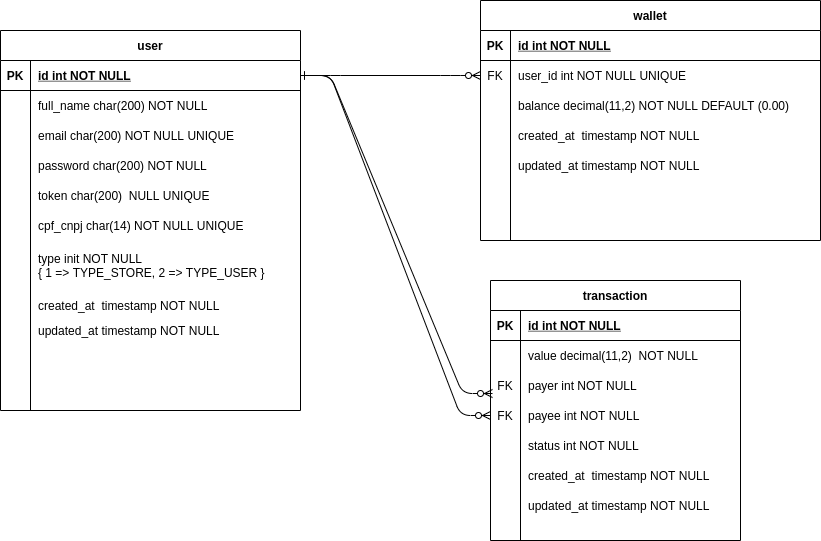
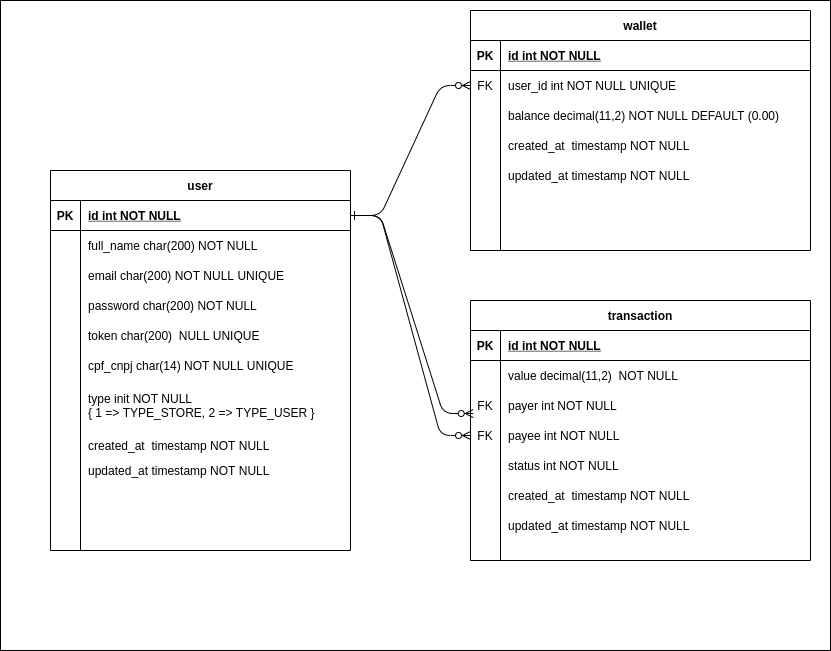
-- modificado o readme, criando um mais simples e criado um link para uma documentacao mais completa --- modificado a image do modelo para poder ser visualizado tanto em modo dark como em modo white

diff --git a/documentacao/README.md b/documentacao/README.md
@@ -1,0 +1,203 @@
+
+<p align="center">
+    <h2 align="center">Projeto Api</h2>
+    
+
+    
+</p>
+
+## Framework
+Vou utilzar a mesma esplicação que utilizei no meu TCC XD.
+
+
+Foi utilizado o framework YII2 para a construção da API REST. Os modelos utilizados são Active Records.
+
+
+
+> O Active Record fornece uma interface orientada a objetos para acessar
+> e manipular dados armazenados em bancos de dados. Uma classe Active
+> Record está associada a uma tabela da base de dados, uma instância do
+> Active Record corresponde a uma linha desta tabela, e um atributo
+> desta instância representa o valor de uma coluna desta linha. Em vez
+> de escrever instruções SQL a mão, você pode acessar os atributos do
+> Active Record e chamar os métodos do Active Record para acessar e
+> manipular os dados armazenados nas tabelas do banco de dados (YII,
+> acesso em outubro de 2018).
+
+  
+Estrutura de Diretorios
+-------------------
+Temos a estrutura basica do YII2 e eu vou dar uma explicada rapida em cada diretorio.
+
+
+```
+.
+└───.docker (arquivos referentes ao docker)
+│   │   
+│   └───app (arquivos referente ao container da api)
+│       │   db.php (arquivo usado para modificacoes de configuracoes referente ao db no yii2)
+│       │   Dockerfile 
+│       │   env.php (algumas variaveis que sao utilizadas para o JWT)
+│   
+└───commands (controllesr que geralmente sao chamados por robos, similar aos jobs do laravel)
+│
+│
+└───config (aquivos referentes as configuracoes do framework)
+│   │   web.php (principal arquivo de configuracao, para as entradas externas)
+│   │   console.php (principal arquivo de configuracao, para os commands)
+│  
+│
+└───controllers
+│   │   NoSecurity.php  
+│   │   TransactionController.php
+│   │   UserController.php
+│ 
+│ 
+└───documentacao (documentacao do sistema)
+│   │ modelo_relacional.png 
+│   │ README.md
+│   │ 
+│ 
+└─── migrations (versionamento do banco em codigo)
+│   | m210305_182717_create_table_user.php ( cria a tabela user)
+│   | m210305_190039_create_table_wallet.php ( cria a tabela wallet)
+│   | m210305_190056_create_table_transaction.php (cria a table transaction)
+│   | m210306_131921_seed_user_and_wallet.php (popula as tabelas user e wallet)
+│ 
+│ 
+└───models
+│   │ Transaction.php    
+│   │ User.php   
+│   │ Wallet.php
+│ 
+│ 
+└───modules
+│   │
+│   └───nodbt
+│   │   │  
+│   │   │  
+│   │   └───controllers   
+│   │   │  
+│   │   └───models   
+│   │   │  Module.php
+│   └───security
+│       │   
+│       │  
+│       └───controllers   
+│       │  
+│       └───models   
+│   
+│ 
+│ 
+└───tests
+│ 
+│ 
+└───web (similar ao public do laravel, onde fica o apontamento e carrega as classes do framework)
+```
+
+
+Estrutura do Projeto
+-------------------
+#### Modelo Relacional
+
+![](./modelo_relacional.png)
+
+#### **Todos os modelos nos 3 modulos semguem as tabelas pois todos sao active records**
+
+
+#### Foi criado 3 modulos de api
+
+
+##### chamadas: **/**
+ usa a estrutura padrao do Yii2 tendo seus modelos em models e seus controles em controllers, a configuracao de roteamento esta em config/web.php na linha 46 toda a parte de urlManager é referente ao roteamento, essa api nao utiliza nenhum padrao de autenticação e seguranca, toda a transaction é realizada por transaction de banco de dados quando ocorre algum erro é realizado um rollback para desfazer todas as operacoes assim não guardando nenhuma informacao
+
+#### chamadas: **/security/**
+Nessa api existe autenticacao via JWT outras implementacoes por exemplo o usuario só consegue ver sua propria wallet, e só consegue ver os valores de transactions que ele participou. possui o mesmo esquema de transaction de banco de dados
+
+#### chamadas: **/nodbt/**
+Nao possui autenticacao e a reversao ao ocorrer algum tipo de erro é realizada sem transaction de banco de dados.
+
+Documentação da api:
+[Postman](https://documenter.getpostman.com/view/1908250/Tz5m6ygv)
+
+#### **Model User**
+Modelo que representa a tabela user, para os modules commom e o nodbt ele só serve para trazer os dados, não foi implementado nada mais além das regras basicas e os filds que deve trazer nas consultas.
+
+
+Já no module security o mesmo tem outras funcoes como o generateToken, que é uma funcao para gerar o token JWT, além de sua authenticacao
+
+#### **Model Wallet**
+Modelo que representa a tabela wallet, para os modules commom, security e nodbt a Wallet funciona praticamente igual tendo as funcoes deposit e withdrawn.
+
+
+A funçao deposit funciona quando o valor é depositado na wallet de outro ususario e dentro dela que é realizado a notificacao que o valor foi recebido.
+
+
+A função withdrawn funciona quando o valor é retirado para ser transferido e é nessa função que a api manda uma requisição para saber se está autorizado ou não.
+
+
+O Module nodbt tem mais duas funções que são o revertDeposit e revertWithdrawn que servem para fazer a reversão dos valores. 
+
+
+
+#### **Model Transaction**
+Modelo que representa a tabela transaction, para os modules commom, security e nodbt a transaction é igual. Sendo responsavel por todas as regras de validação exceto a verificação de autorização no serviço de terceiros.
+
+#### **Controller User**
+Controller que representa as chamadas referente aos users, nos modules commom e nodbt funciona exatamente igual, trazendo todos os dados sem a necessidade de authenticação, já no module security é necessario um token e o
+usuario do token só pode ver os valores de sua propria wallet.
+
+#### **Controller Transaction**
+Controller que representa as chamadas referente as transactions.
+No module commom e nodbt as chamdas gets (list e view) trazem todos os valores sem nenhum criterio.
+
+
+No module security as chamdas gets (list e view), necessario envio do token, só trazem todos os valores exceto o value da transaction caso o usuario não participou da mesma.
+
+
+No module commom e security a chamda post (create), precisa dos dados descrito na documentação da api e caso ocorra uma incosistencia a mesma não é realizada por causa do rollback, a diferença entre o commom e security 
+é que no security o payer é sempre o usuario authenticado.
+No module nodbt é parecido com o do module commom a diferençã é que não tem rollback e a reversão é feita a partir de modificações na wallet.
+
+#### Controller Transaction
+
+##### Dados 
+como não foi criado a api para cadastro de usuarios, foi criado um migration para popular o banco com usuarios apra fins de teste. 
+
+
+Os usuario seguem a nomeclatura user1@apiprocesso.teste ... até user5@apiprocesso.teste os 3 primeiros sao usuarios comuns e os 2 ultimos são usuarios tipos de loja. 
+
+
+cada qual teve um valor especifico na wallet.
+
+
+
+Estrutura Docker
+---------------------
+O docker-compose foi separado em 3 containers diferentes um container para a api, um para o mysql e o ultimo com o adminer para acessar o banco com mais facilidade.
+
+
+existe um .env com as configuracoes necessarias para rodar o docker-compose.
+
+
+os arquivos referentes ao docker ficam no diretorio .docker/
+
+
+o mesmo possui 3 diretorios mais um arquivo de comando.
+
+
+diretorio app/ possui arquivos que seram subistituidos no yii2 sempre que rodar um compose up e possui o dockerfile com a configuracao docker da api.
+
+
+foi utilizado o dockerize para fazer essas subistituicoes.
+
+
+o diretorio dbdata é o responsavel peloas arquivos de banco
+
+
+o diretorio httpd é aonde ficam as configuracoes do apache que o container da api utiliza
+
+
+e o arquivo entrypoint.sh é o entrypoint do container da api o mesmo instala os arquivos do compose caso não nao esteja instalado.
+
+

diff --git a/README.md b/README.md
@@ -1,113 +1,12 @@
 
-<p align="center">
-    <h2 align="center">Projeto Api</h2>
-    <br>
-</p>
+# Projeto Api
+Projeto com a finalidade de realizar transferencia de valores entre usuarios.
 
-## Framework
-Vou utilzar a mesma esplicação que utilizei no meu TCC XD.<br>
-Foi utilizado o framework YII2 para a construção da API REST. Os modelos utilizados são Active Records.<br>
-
-> O Active Record fornece uma interface orientada a objetos para acessar
-> e manipular dados armazenados em bancos de dados. Uma classe Active
-> Record está associada a uma tabela da base de dados, uma instância do
-> Active Record corresponde a uma linha desta tabela, e um atributo
-> desta instância representa o valor de uma coluna desta linha. Em vez
-> de escrever instruções SQL a mão, você pode acessar os atributos do
-> Active Record e chamar os métodos do Active Record para acessar e
-> manipular os dados armazenados nas tabelas do banco de dados (YII,
-> acesso em outubro de 2018).
-
-  
-Estrutura de Diretorios
--------------------
-Temos a estrutura basica do YII2 e eu vou dar uma explicada rapida em cada diretorio.<br>
-.docker/ <br>
-nesse diretorio ficam os arquivos referentes ao docker, tera uma sessao para explicar sobre o uso do docker nesse projeto.<br>
-commands/ <br>
-diretorios referentes ao comandos, geralmente algo que sera executado pelo cron similar aos jobs do laravel<br>
-config/ <br>
-diretorio com os aquivos referentes as configuracoes do framework, um arquivo em especifico o web.php contem todas as configuracoes mais as rotas das apis.<br>
-controllers/ <br>
-diretorio com as classes referentes aos controllers<br>
-documentacao/ <br>
-diretorio com arquivos referente a documentacao do sistema.<br>
-migrations/ <br>
-diretorio com as classes de migrations, para versionamento do banco em codigo.<br>
-models/ <br>
-diretorio com as classes referentes aos modelos.<br>
-modules/ <br>
-diretorio com os modules, cada modulo possui seus diretorios de models e controllers <br>
-tests/ <br>
-diretorio para as classes de testes<br>
-web/ <br>
-diretorio similar ao public do laravel, onde fica o apontamento e carrega as classes do framework.<br>
-
-
-Estrutura do Projeto
--------------------
-#### Modelo Relacional
-![](documentacao/modelo_relacional.png)
-##### Todos os modelos nos 3 modulos semguem as tabelas pois todos sao active records
-#### Foi criado 3 modulos de api
-##### chamadas / 
- usa a estrutura padrao do Yii2 tendo seus modelos em models e seus controles em controllers, a configuracao de roteamento esta em config/web.php na linha 46 toda a parte de urlManager é referente ao roteamento, essa api nao utiliza nenhum padrao de autenticação e seguranca, toda a transaction é realizada por transaction de banco de dados quando ocorre algum erro é realizado um rollback para desfazer todas as operacoes assim não guardando nenhuma informacao
-
-#### chamadas /security/
-Nessa api existe autenticacao via JWT outras implementacoes por exemplo o usuario só consegue ver sua propria wallet, e só consegue ver os valores de transactions que ele participou. possui o mesmo esquema de transaction de banco de dados
-
-#### chamadas /nodbt/
-Nao possui autenticacao e a reversao ao ocorrer algum tipo de erro é realizada sem transaction de banco de dados.
-
-documentação da api com suas chamadas e exemplos
-[https://documenter.getpostman.com/view/1908250/Tz5m6ygv](https://documenter.getpostman.com/view/1908250/Tz5m6ygv)
-
-#### Model User
-Modelo que representa a tabela user, para os modules commom e o nodbt ele só serve para trazer os dados, não foi implementado nada mais além das regras basicas e os filds que deve trazer nas consultas.<br>
-Já no module security o mesmo tem outras funcoes como o generateToken, que é uma funcao para gerar o token JWT, além de sua authenticacao
-
-#### Model Wallet
-Modelo que representa a tabela wallet, para os modules commom, security e nodbt a Wallet funciona praticamente igual tendo as funcoes deposit e withdrawn.<br>
-A funçao deposit funciona quando o valor é depositado na wallet de outro ususario e dentro dela que é realizado a notificacao que o valor foi recebido.<br>
-A função withdrawn funciona quando o valor é retirado para ser transferido e é nessa função que a api manda uma requisição para saber se está autorizado ou não.<br>
-O Module nodbt tem mais duas funções que são o revertDeposit e revertWithdrawn que servem para fazer a reversão dos valores. <br>
-
-#### Model Transaction
-Modelo que representa a tabela transaction, para os modules commom, security e nodbt a transaction é igual. Sendo responsavel por todas as regras de validação exceto a verificação de autorização no serviço de terceiros.
-
-#### Controller User
-Controller que representa as chamadas referente aos users, nos modules commom e nodbt funciona exatamente igual, trazendo todos os dados sem a necessidade de authenticação, já no module security é necessario um token e o
-usuario do token só pode ver os valores de sua propria wallet.
-
-#### Controller Transaction
-Controller que representa as chamadas referente as transactions.
-No module commom e nodbt as chamdas gets (list e view) trazem todos os valores sem nenhum criterio.<br>
-No module security as chamdas gets (list e view), necessario envio do token, só trazem todos os valores exceto o value da transaction caso o usuario não participou da mesma.<br>
-No module commom e security a chamda post (create), precisa dos dados descrito na documentação da api e caso ocorra uma incosistencia a mesma não é realizada por causa do rollback, a diferença entre o commom e security 
-é que no security o payer é sempre o usuario authenticado.
-No module nodbt é parecido com o do module commom a diferençã é que não tem rollback e a reversão é feita a partir de modificações na wallet.
-
-#### Controller Transaction
-
-##### Dados 
-como não foi criado a api para cadastro de usuarios, foi criado um migration para popular o banco com usuarios apra fins de teste. <br>
-Os usuario seguem a nomeclatura user1@apiprocesso.teste ... até user5@apiprocesso.teste os 3 primeiros sao usuarios comuns e os 2 ultimos são usuarios tipos de loja. <br>
-cada qual teve um valor especifico na wallet.<br>
-
-Estrutura Docker
----------------------
-O docker-compose foi separado em 3 containers diferentes um container para a api, um para o mysql e o ultimo com o adminer para acessar o banco com mais facilidade.<br>
-existe um .env com as configuracoes necessarias para rodar o docker-compose.<br>
-os arquivos referentes ao docker ficam no diretorio .docker/<br>
-o mesmo possui 3 diretorios mais um arquivo de comando.<br>
-diretorio app/ possui arquivos que seram subistituidos no yii2 sempre que rodar um compose up e possui o dockerfile com a configuracao docker da api.<br>
-foi utilizado o dockerize para fazer essas subistituicoes.<br>
-o diretorio dbdata é o responsavel peloas arquivos de banco<br>
-o diretorio httpd é aonde ficam as configuracoes do apache que o container da api utiliza<br>
-e o arquivo entrypoint.sh é o entrypoint do container da api o mesmo instala os arquivos do compose caso não nao esteja instalado.<br>
-
-O que é necessario para rodar ?
----------------------
+* Documentação do projeto:
+[Documentação](/documentacao/README.md)
+* Documentação da api:
+[Postman](https://documenter.getpostman.com/view/1908250/Tz5m6ygv)
+## O que é necessario para rodar ?
 
  1. Baixar o projeto
  2. Copiar o .env.example para um .env
